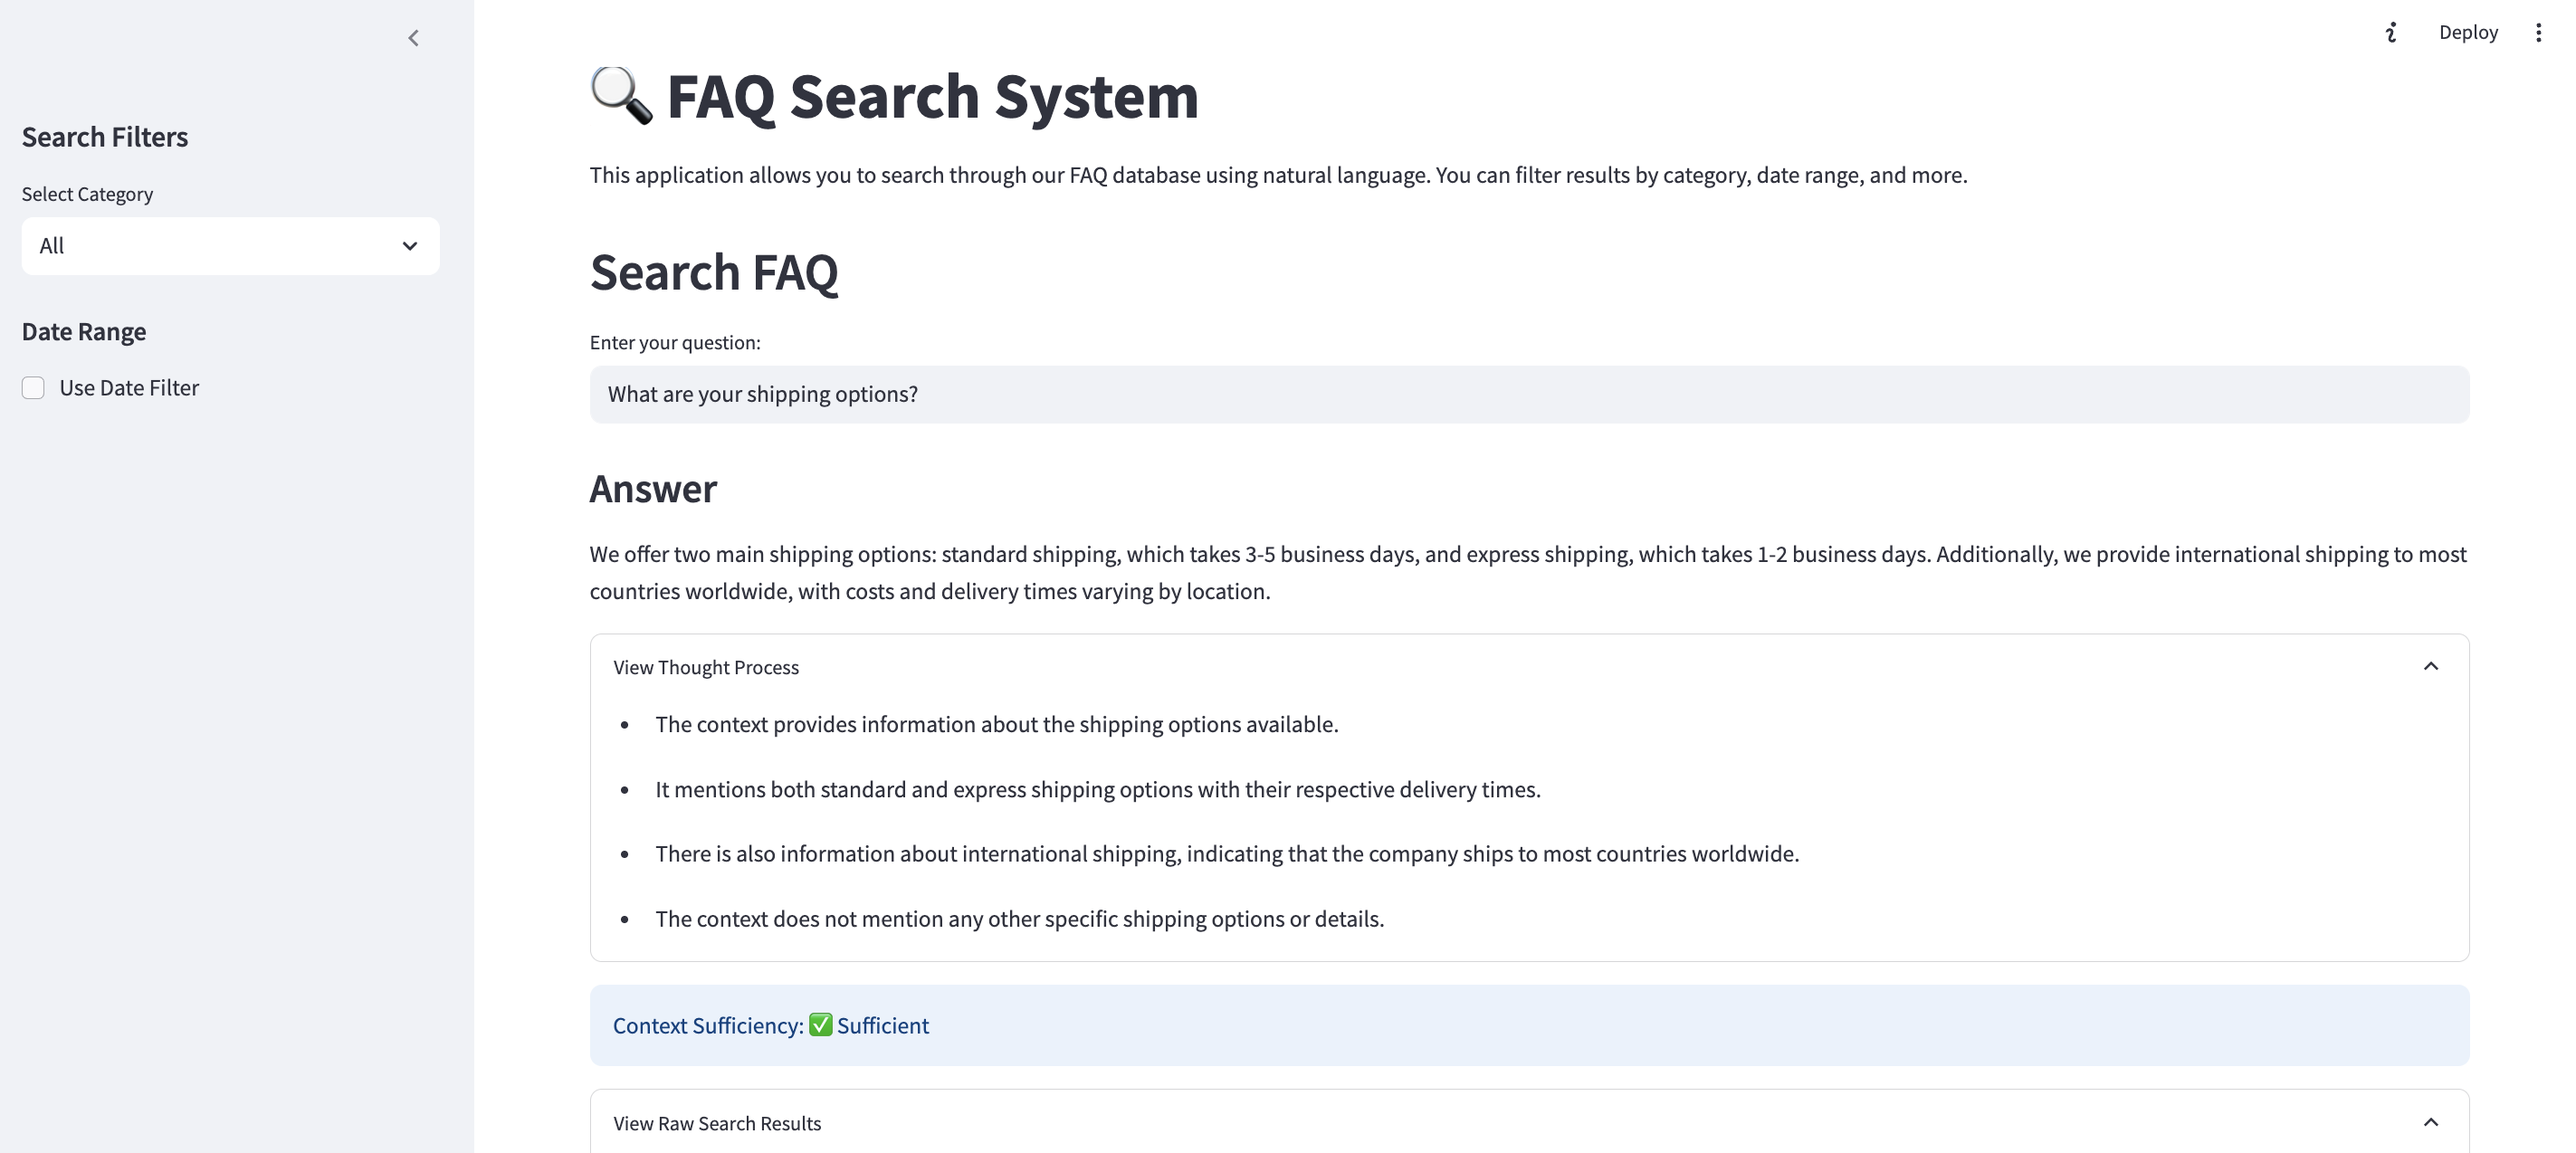
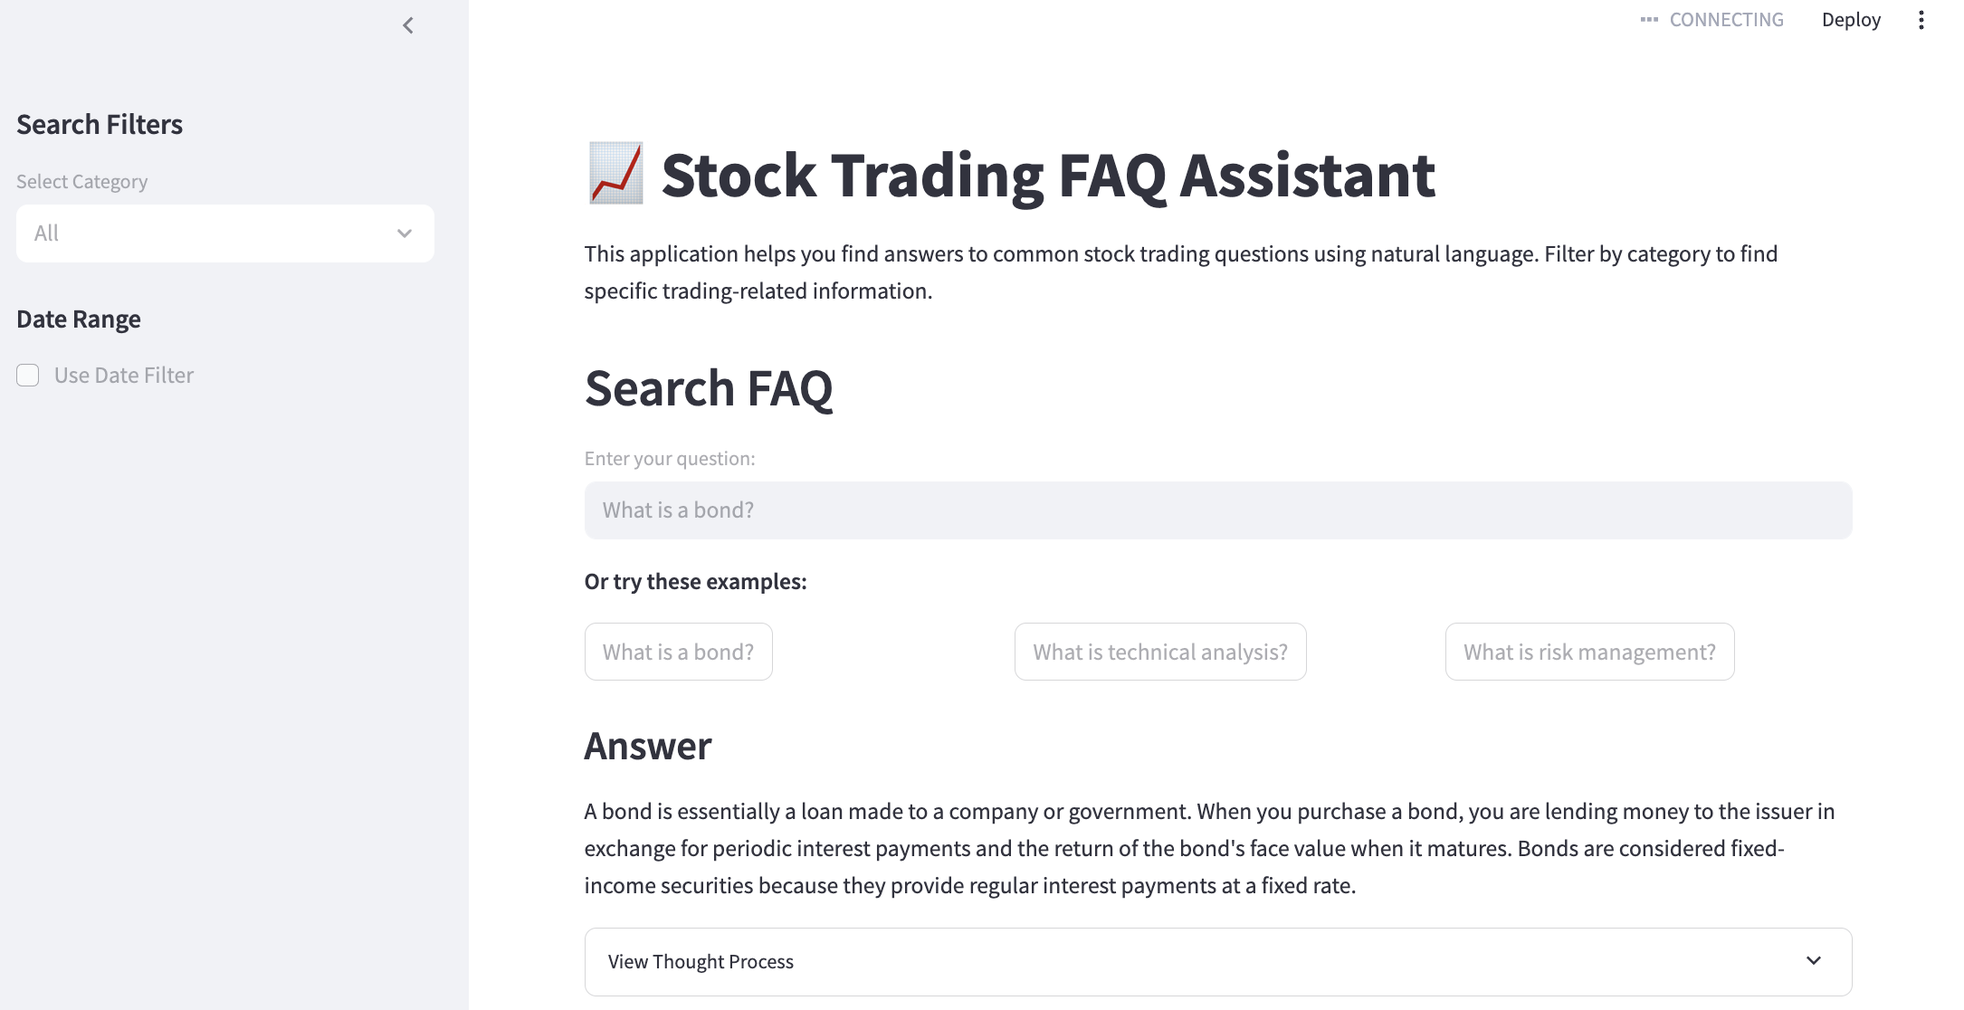
Update README.md: Remove WIP note, focus on Stock Trading RAG, add Streamlit instructions

diff --git a/app/app.py b/app/app.py
@@ -15,10 +15,10 @@ st.set_page_config(
 )
 
 # Title and description
-st.title("🔍 FAQ Search System")
+st.title("📈 Stock Trading FAQ Assistant")
 st.markdown("""
-This application allows you to search through our FAQ database using natural language.
-You can filter results by category, date range, and more.
+This application helps you find answers to common stock trading questions using natural language.
+Filter by category to find specific trading-related information.
 """)
 
 # Sidebar for filters
@@ -27,19 +27,50 @@ st.sidebar.header("Search Filters")
 # Category filter
 categories = [
     "All",
-    "Shipping",
-    "Order Management",
-    "Returns",
-    "Payment",
-    "Product Information",
-    "Customer Support",
-    "Services",
-    "Pricing",
-    "Account Management",
-    "Rewards",
-    "Communication",
-    "Company Information",
-    "Privacy"
+    "Trading Strategies",
+    "Trading Strategy",
+    "Trading Basics",
+    "Trading Concepts",
+    "Trading Tools",
+    "Trading Options",
+    "Technical Analysis",
+    "Fundamental Analysis",
+    "Market Indicators",
+    "Market Structure",
+    "Market Function",
+    "Market Theory",
+    "Market Benchmarks",
+    "Market Cycles",
+    "Market Anomalies",
+    "Risk Management",
+    "Order Types",
+    "Brokerage Accounts",
+    "Options Strategy",
+    "Portfolio Management",
+    "Investment Options",
+    "Investment Types",
+    "Company Analysis",
+    "Financial Metrics",
+    "Price Metrics",
+    "Earnings Analysis",
+    "Economic Impact",
+    "Industry Basics",
+    "Corporate Finance",
+    "Derivatives",
+    "Dividend Types",
+    "International Investing",
+    "International Risk",
+    "International Access",
+    "Account Types",
+    "Advanced Trading",
+    "Advanced Strategy",
+    "Advanced Risk",
+    "High-Risk Investing",
+    "Employee Benefits",
+    "Tax Rules",
+    "Wealth Building",
+    "Research Tools",
+    "Analysis Methods"
 ]
 
 selected_category = st.sidebar.selectbox("Select Category", categories)
@@ -56,9 +87,32 @@ if use_date_filter:
 else:
     time_range = None
 
+# Use session state to store the current query
+if 'query' not in st.session_state:
+    st.session_state.query = ''
+
 # Main search interface
 st.header("Search FAQ")
-query = st.text_input("Enter your question:", placeholder="e.g., What are your shipping options?")
+query = st.text_input("Enter your question:", key="main_query_input", value=st.session_state.query, placeholder="e.g., What is a stock?")
+
+# Add example questions
+st.markdown("**Or try these examples:**")
+col1, col2, col3 = st.columns(3)
+
+with col1:
+    if st.button("What is a bond?"):
+        st.session_state.query = "What is a bond?"
+        st.rerun()
+
+with col2:
+    if st.button("What is technical analysis?"):
+        st.session_state.query = "What is technical analysis?"
+        st.rerun()
+
+with col3:
+    if st.button("What is risk management?"):
+        st.session_state.query = "What is risk management?"
+        st.rerun()
 
 if query:
     # Prepare search parameters
@@ -114,4 +168,4 @@ if query:
 
 # Footer
 st.markdown("---")
-st.markdown("Built with Streamlit • Powered by TimescaleDB and OpenAI") 
+st.markdown("2025 Seonok Kim") 

diff --git a/app/insert_vectors.py b/app/insert_vectors.py
@@ -8,7 +8,7 @@ from timescale_vector.client import uuid_from_time
 vec = VectorStore()
 
 # Read the CSV file
-df = pd.read_csv("../data/faq_dataset.csv", sep=";")
+df = pd.read_csv("../data/trading-faq.csv", sep=";")
 
 
 # Prepare data for insertion

diff --git a/README.md b/README.md
@@ -1,12 +1,10 @@
-# FAQ Search System
+# Stock Trading FAQ Assistant
 
-This project implements an FAQ Search System using RAG (Retrieval Augmented Generation) with a PostgreSQL database and pgvector for storing and querying vector embeddings.
-
-The system allows users to search frequently asked questions using natural language and retrieves the most relevant answers based on semantic similarity. Search results include the question and answer, along with metadata such as category, creation date, and similarity score.
+This project implements a Stock Trading FAQ Assistant using RAG (Retrieval Augmented Generation) with a PostgreSQL database and pgvector for storing and querying vector embeddings. It allows users to search for frequently asked questions related to stock trading using natural language and retrieves the most relevant answers based on semantic similarity. Search results include the question and answer, along with metadata such as category, creation date, and similarity score.
 
 ## Getting Started
 
-Follow these steps to set up and run the FAQ Search System locally:
+Follow these steps to set up and run the Stock Trading FAQ Assistant locally:
 
 1.  **Clone your repository:**
 
@@ -69,8 +67,29 @@ Follow these steps to set up and run the FAQ Search System locally:
     npm run dev
     ```
 
-    The application should now be running and accessible, likely at `http://localhost:3000` or similar. 
+    The application should now be running and accessible, likely at `http://localhost:3000` or similar.
 
+## Running the Streamlit Application
+
+To run the Streamlit application, follow these steps:
+
+1.  **Install Streamlit:**
+
+    If you haven't already, install Streamlit using pip.
+
+    ```bash
+    pip install streamlit
+    ```
+
+2.  **Run the Streamlit app:**
+
+    Navigate to the directory containing the Streamlit app file (e.g., `app.py`) and run the following command:
+
+    ```bash
+    streamlit run app.py
+    ```
+
+    The Streamlit app should now be running and accessible in your web browser, typically at `http://localhost:8501`.
 
 ## Database Structure (TablePlus Example)
 
@@ -80,9 +99,10 @@ The project uses a PostgreSQL database with the `pgvector` extension to store ve
 
 ## Streamlit Application
 
-This project includes a user-friendly web interface built with Streamlit for the FAQ Search System. You can interact with the search functionality through this application.
+This project includes a user-friendly web interface built with Streamlit for the Stock Trading FAQ Assistant. You can interact with the search functionality through this application.
 
 ![Streamlit App GUI](images/streamlit_app_gui.png)
 
 ## Acknowledgments
-This project is based on the code from [daveebbelaar/pgvectorscale-rag-solution](https://github.com/daveebbelaar/pgvectorscale-rag-solution/tree/setup). 
+
+This project is based on the code from [daveebbelaar/pgvectorscale-rag-solution](https://github.com/daveebbelaar/pgvectorscale-rag-solution).
